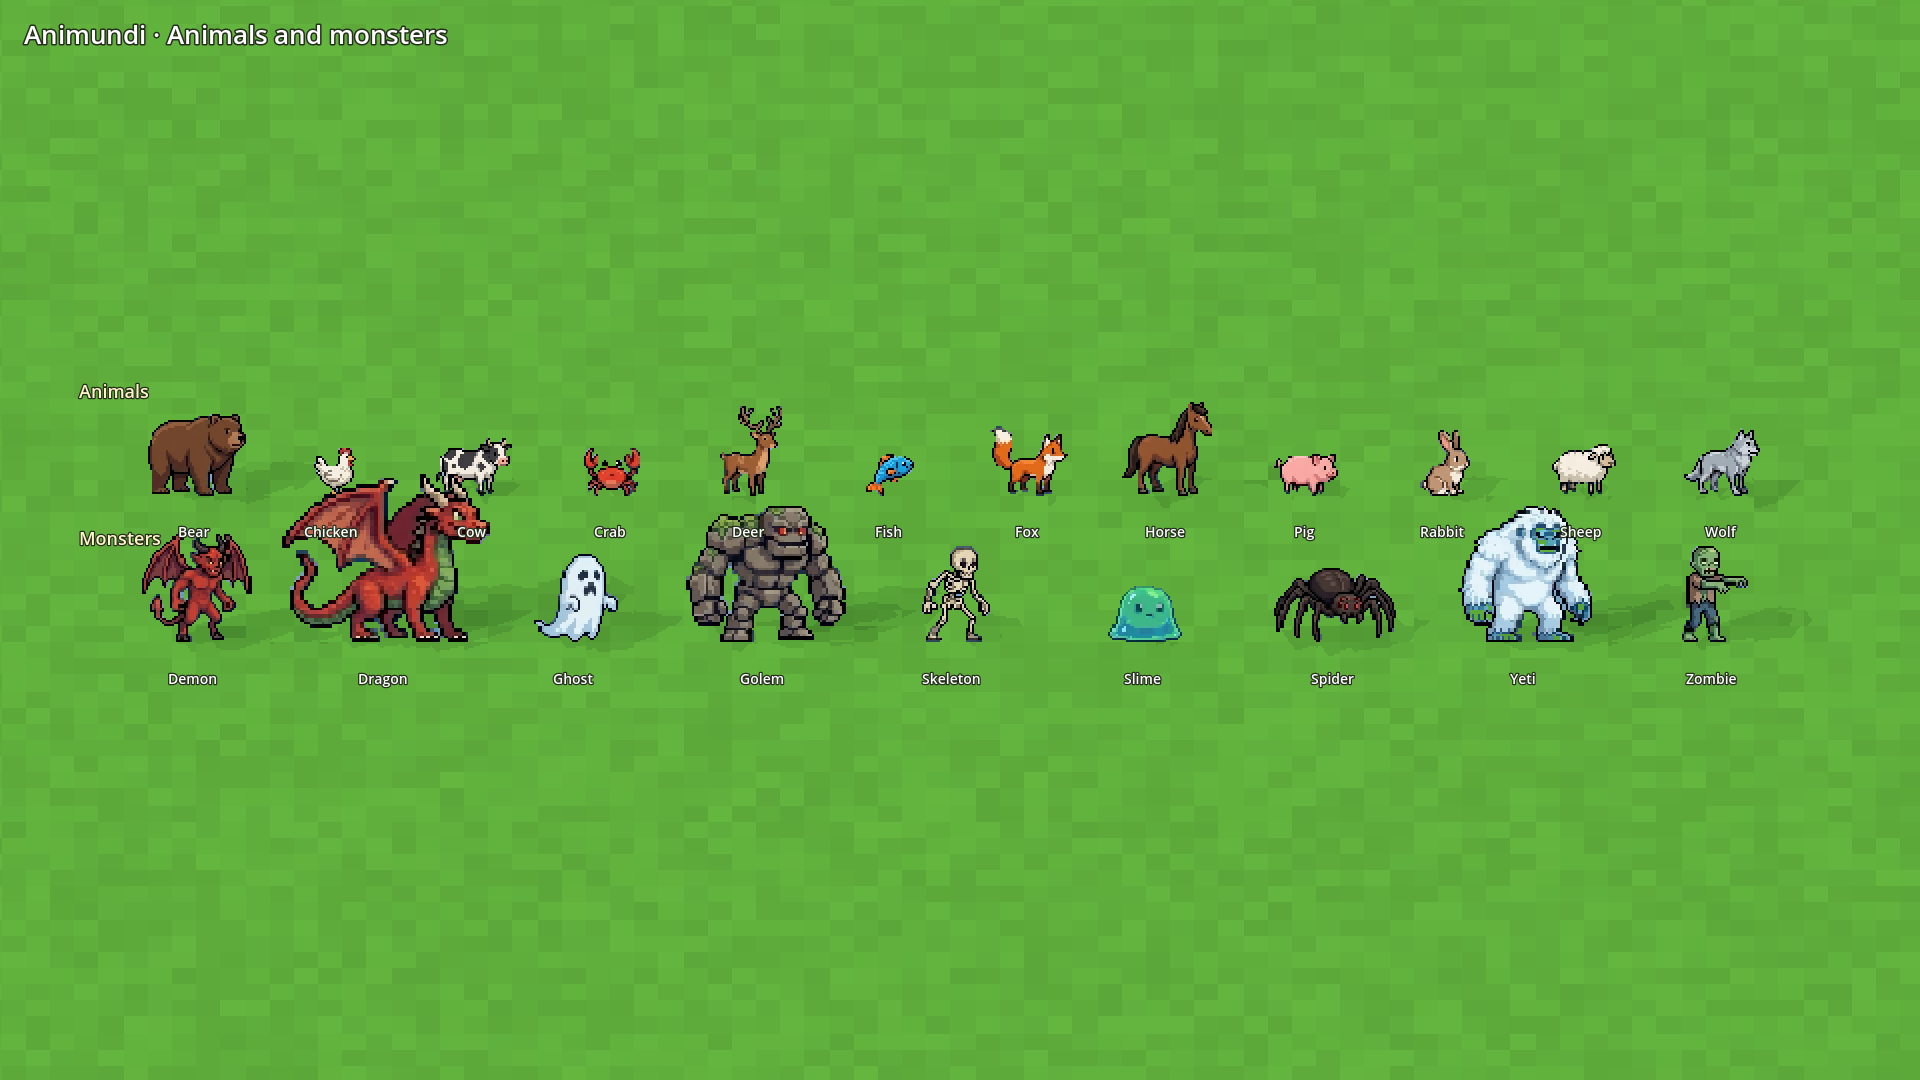
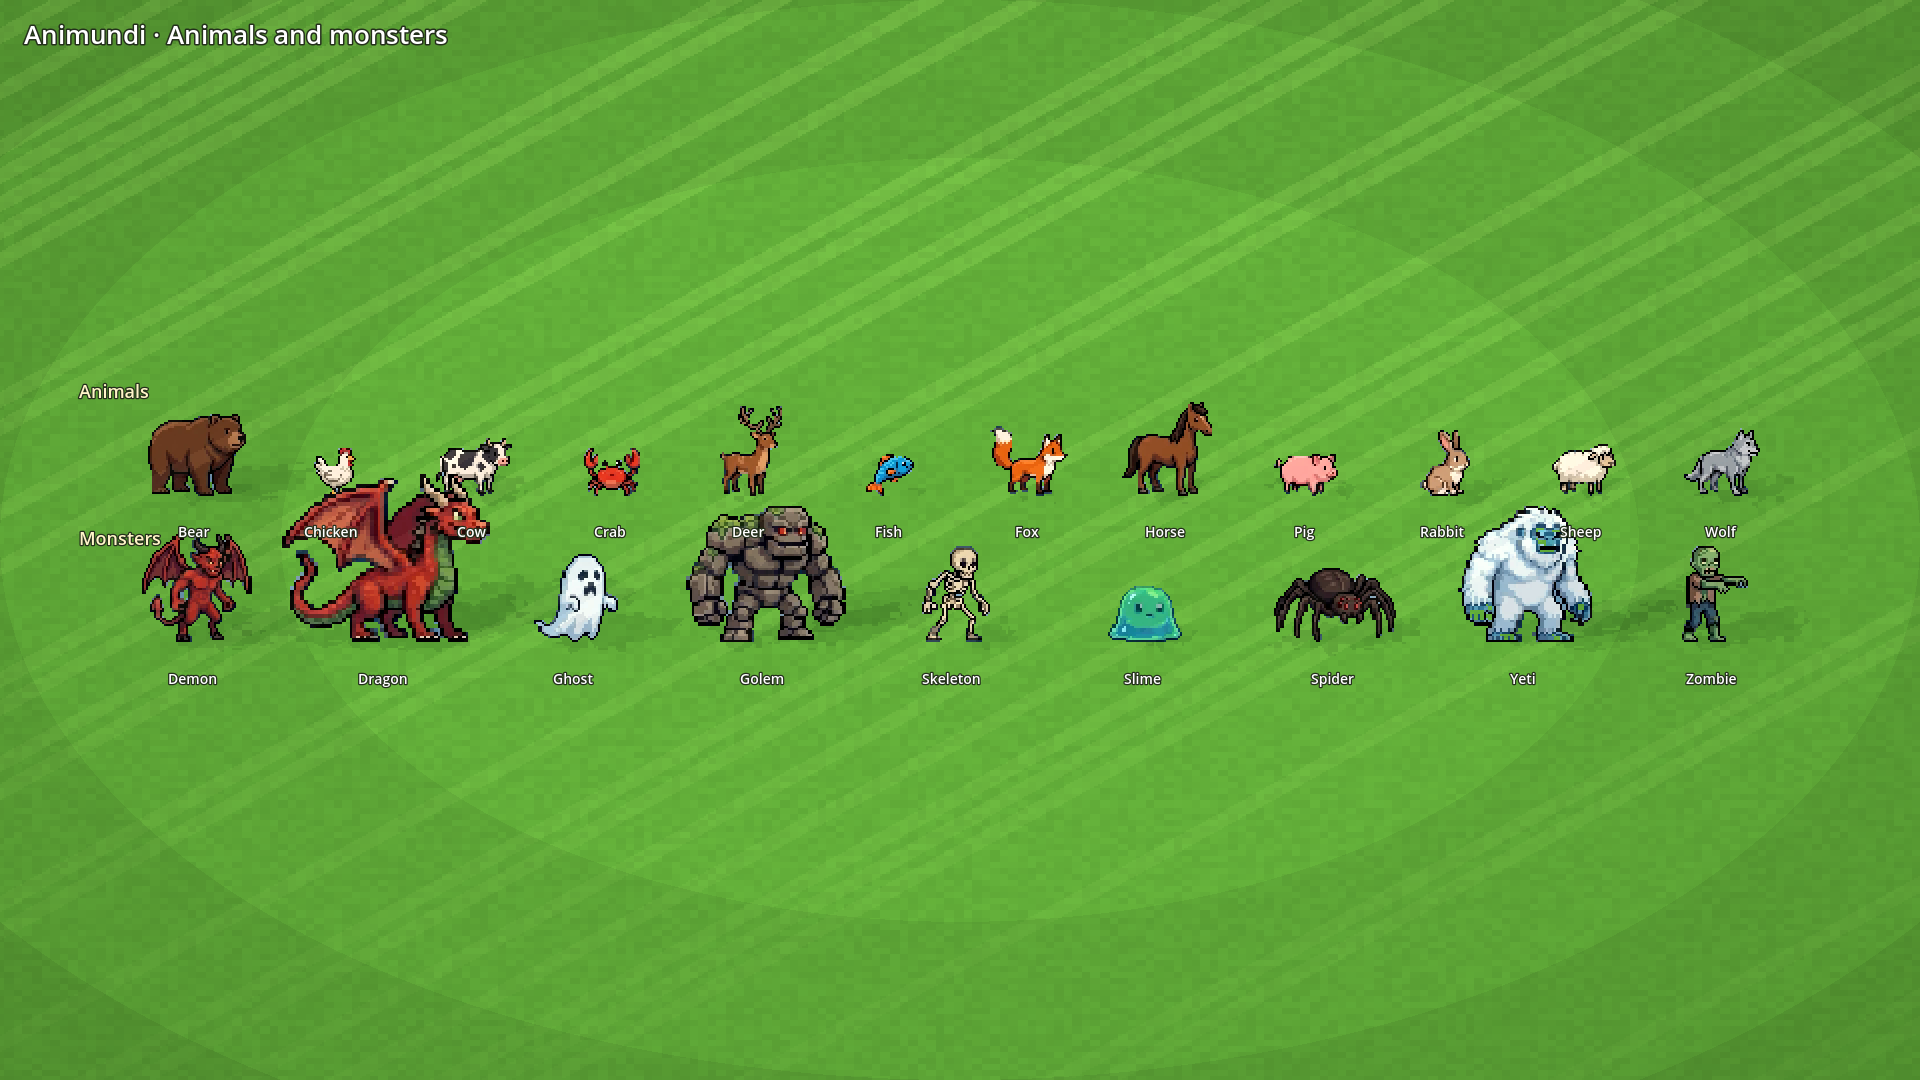
Add shader effects: lit swaying sprites, cloud shadows, cliff outlines, light shafts
- Sprites are lit like the ground they stand on (exact sheet colours in
  full sun, darker in tree and cloud shadows) and plants sway in the
  wind in pixel steps; rocks and cacti stay still.
- Drifting pixel-edged cloud shadows over land, sprites and water.
- Terrain tops get a 1-pixel dark outline where the ground drops,
  read from the heightmap.
- A post pass on the low-resolution render adds diagonal light shafts,
  a warm grade and a vignette.
- E (or the Effects switch) turns every effect on or off.

Claude-Session: https://claude.ai/code/session_01GoyuuhY9JrMPE9JVSkrvu8

diff --git a/docs/ART_DIRECTION.md b/docs/ART_DIRECTION.md
@@ -20,6 +20,17 @@ Techniques described in the article, all to be reproduced:
 
 Known limit noted by the author: a perfect outline shader for every model and camera angle is not possible at this resolution, so some edge compromises are expected.
 
+## Shader effects in the game (toggle with E)
+
+| Effect | Where |
+|---|---|
+| Banded toon light with dithered edges, shared by ground, sprites and water | `shaders/toon.gdshaderinc` |
+| Sprites lit like the ground, darkened in tree and cloud shadows, swaying in the wind | `shaders/sprite.gdshader` |
+| Tile-top patterns, cliff strata, 1-pixel dark outline where the ground drops, glowing lava | `shaders/terrain.gdshader` |
+| Water depth colours, mirrored-camera reflections with pixel ripple, glints, shore foam | `shaders/water.gdshader` |
+| Drifting cloud shadows over land and sea | `cloud_shade` in `shaders/toon.gdshaderinc` |
+| Diagonal light shafts, warm afternoon grade, vignette, per render pixel | `shaders/post.gdshader` |
+
 ## Sprites in the 3D world
 
 The camera never rotates, so characters, animals, monsters, trees and plants are **2D pixel-art sprites** standing upright in the 3D world, facing the camera (stretched by 1 / cos(pitch) so they keep their drawn proportions), casting shadows of their own shape on the relief. Their art comes from the reference sheets in `art/reference/` (trees, small plants, biomes, water, races, roles × races, animals, monsters), cut into `assets/sprites/` by `art/extract_sprites.py`. Biome ground and water colours are taken from the biome and water sheets.

diff --git a/README.md b/README.md
@@ -42,6 +42,7 @@ Controls:
 | New random world | R or the **Random** button |
 | Map layers | 1 Biomes · 2 Height · 3 Temperature · 4 Humidity · 5 Rivers |
 | Pixel size | **Pixel size** box (1 = full resolution, 3 = default) |
+| Effects on / off (wind, clouds, outlines, light shafts) | E |
 | Tile info | hover the map (bottom bar) |
 
 Type any word or number as the seed: the same seed and settings always give the same world.
